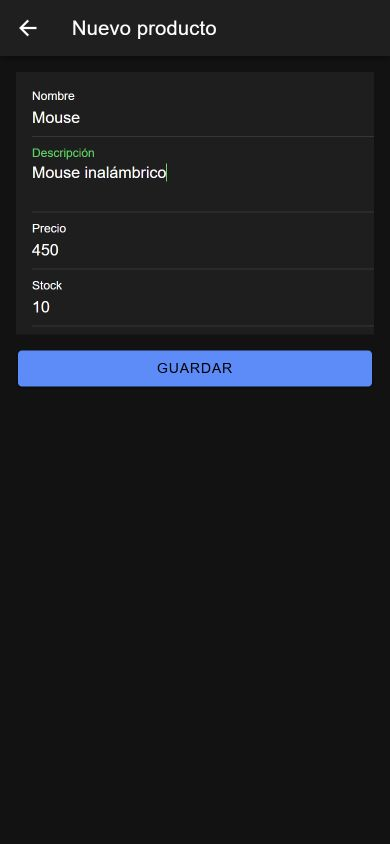
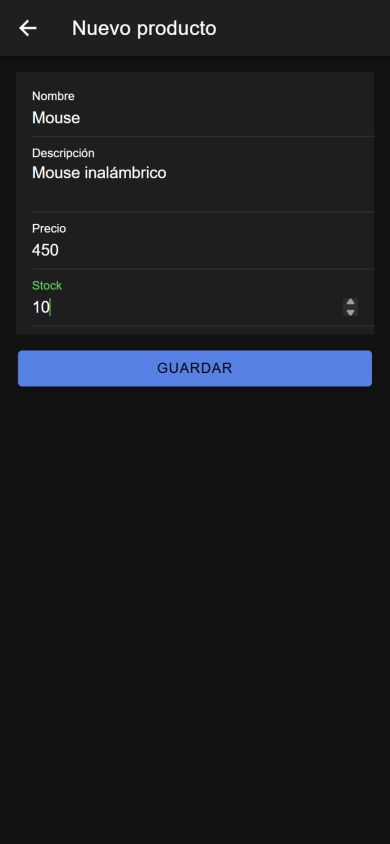
docs: muestra opciones de boton mas en manual 03 mediante pagina

diff --git a/docs/manuales/03_crear_elemento_pagina.md b/docs/manuales/03_crear_elemento_pagina.md
@@ -2,7 +2,7 @@
 
 En esta práctica abrirás un formulario desde el listado, validarás sus campos y enviarás un producto a Directus mediante `POST`. Después de guardar y aceptar la confirmación, regresarás al listado y verás el nuevo registro sin recargar el navegador.
 
-**Resultado esperado:** el botón **Nuevo** abrirá la página `productos-form`. La figura 1 muestra el formulario con los datos del ejemplo, antes de guardarlo.
+**Resultado esperado:** el botón con icono **+** abrirá la página `productos-form`. La figura 1 muestra el formulario con los datos del ejemplo, antes de guardarlo.
 
 <p align="center">
   <img src="imagenes/03-pagina-formulario.jpg" alt="Formulario de creación con los datos del producto Mouse" width="390"><br>
@@ -119,13 +119,25 @@ En `mobile/src/app/productos-list/productos-list.page.html`, **dentro de `ion-to
 
 ```html
 <ion-buttons slot="end">
-  <ion-button [routerLink]="['/productos-form']">
-    Nuevo
+  <ion-button fill="solid" [routerLink]="['/productos-form']" aria-label="Nuevo producto">
+    <ion-icon slot="icon-only" name="add"></ion-icon>
   </ion-button>
 </ion-buttons>
 ```
 
-Conserva el listado y los botones **Ver detalle** del manual 02. Si ya existe el botón **Nuevo**, no lo dupliques.
+**Opción A: botón en la barra.** El bloque anterior coloca el icono **+** a la derecha del título (figura 4). El atributo `aria-label` identifica su acción para lectores de pantalla sin mostrar palabras.
+
+**Opción B: botón flotante.** Si prefieres el acceso flotante, retira el bloque `ion-buttons` de creación de la barra y agrega el siguiente bloque **dentro de `ion-content`, antes de `</ion-content>`**, después de `</ion-list>`:
+
+```html
+<ion-fab slot="fixed" vertical="bottom" horizontal="center">
+  <ion-fab-button [routerLink]="['/productos-form']" aria-label="Nuevo producto">
+    <ion-icon name="add"></ion-icon>
+  </ion-fab-button>
+</ion-fab>
+```
+
+La figura 5 muestra esta alternativa. **Elige una sola opción**: ambas abren la misma página y utilizan el mismo formulario. Conserva las filas y los botones con icono de **ojo** del manual 02. El código completo de la sección 4 utiliza la opción A. Los botones `ion-button` llevan `fill="solid"`; `ion-fab-button` ya es sólido.
 
 ### Paso 5. Crear el formulario y sus mensajes en TypeScript
 
@@ -335,7 +347,7 @@ Abre `mobile/src/app/productos-form/productos-form.page.html` y **reemplaza su c
       </ion-note>
     </ion-list>
 
-    <ion-button expand="block" type="submit" class="ion-margin-top" [disabled]="guardando">
+    <ion-button fill="solid" expand="block" type="submit" class="ion-margin-top" [disabled]="guardando">
       {{ guardando ? 'Guardando...' : 'Guardar' }}
     </ion-button>
   </form>
@@ -400,8 +412,8 @@ export class ProductosListPage {
   <ion-toolbar>
     <ion-title>Productos</ion-title>
     <ion-buttons slot="end">
-      <ion-button [routerLink]="['/productos-form']">
-        Nuevo
+      <ion-button fill="solid" [routerLink]="['/productos-form']" aria-label="Nuevo producto">
+        <ion-icon slot="icon-only" name="add"></ion-icon>
       </ion-button>
     </ion-buttons>
   </ion-toolbar>
@@ -417,8 +429,8 @@ export class ProductosListPage {
         <p>Stock: {{ producto.stock }}</p>
         <p>Registro: {{ producto.fecha_registro | date:'yyyy-MM-dd' }}</p>
       </ion-label>
-      <ion-button slot="end" [routerLink]="['/productos-view', producto.id]">
-        Ver detalle
+      <ion-button fill="solid" slot="end" [routerLink]="['/productos-view', producto.id]" aria-label="Ver detalle">
+        <ion-icon slot="icon-only" name="eye"></ion-icon>
       </ion-button>
     </ion-item>
   </ion-list>
@@ -642,7 +654,7 @@ export class ProductosFormPage implements OnInit {
       </ion-note>
     </ion-list>
 
-    <ion-button expand="block" type="submit" class="ion-margin-top" [disabled]="guardando">
+    <ion-button fill="solid" expand="block" type="submit" class="ion-margin-top" [disabled]="guardando">
       {{ guardando ? 'Guardando...' : 'Guardar' }}
     </ion-button>
   </form>
@@ -681,6 +693,20 @@ Presiona **Guardar**. Debe aparecer **Producto guardado**. Al presionar **Acepta
 
 Los demás productos y las fechas dependen de tu base de datos. Esta prueba crea un registro real en la colección `productos` del entorno de prácticas.
 
+### Dos ubicaciones para el botón de creación
+
+Con la opción A, el icono **+** aparece en la barra (figura 4). Con la opción B, aparece flotando en la parte inferior (figura 5). En ambos casos, presiónalo y comprueba que abre `/productos-form` con el formulario vacío; regresa al listado con la flecha de atrás.
+
+<p align="center">
+  <img src="imagenes/03-pagina-boton-barra.jpg" alt="Icono más en la barra del listado para abrir la página de creación" width="390"><br>
+  <em>Figura 4. Opción A: botón sólido con icono + en la barra.</em>
+</p>
+
+<p align="center">
+  <img src="imagenes/03-pagina-boton-flotante.jpg" alt="Botón flotante con icono más para abrir la página de creación" width="390"><br>
+  <em>Figura 5. Opción B: botón flotante + que abre la misma página.</em>
+</p>
+
 ## 6. Explicación detallada del flujo
 
 ### Del formulario al listado actualizado
@@ -689,7 +715,7 @@ La app valida los datos antes de enviarlos. Directus crea el producto y la aplic
 
 ```mermaid
 flowchart TD
-    A["📱 El usuario presiona Nuevo"] --> B["Router abre /productos-form"]
+    A["📱 El usuario presiona +"] --> B["Router abre /productos-form"]
     B --> C["ngOnInit() crea el formulario reactivo"]
     C --> D["El usuario captura los datos y presiona Guardar"]
     D --> E{"¿El formulario es válido?"}
